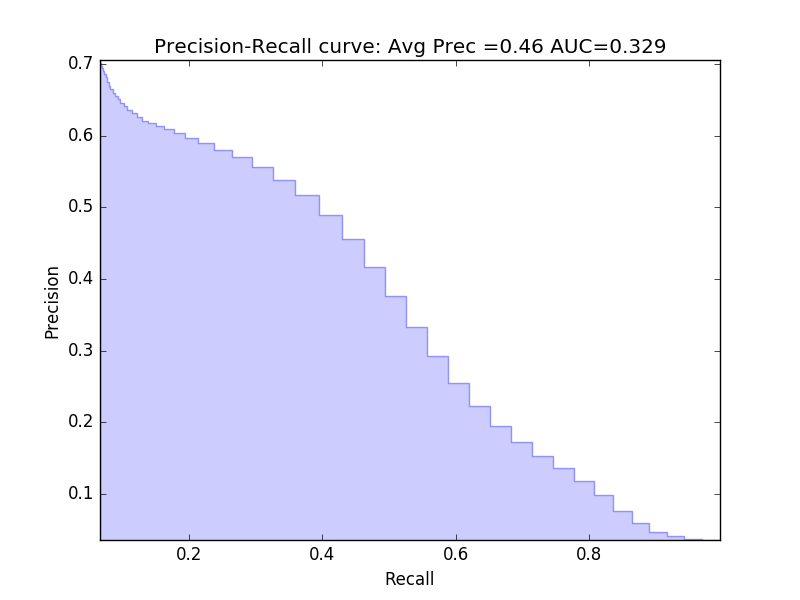
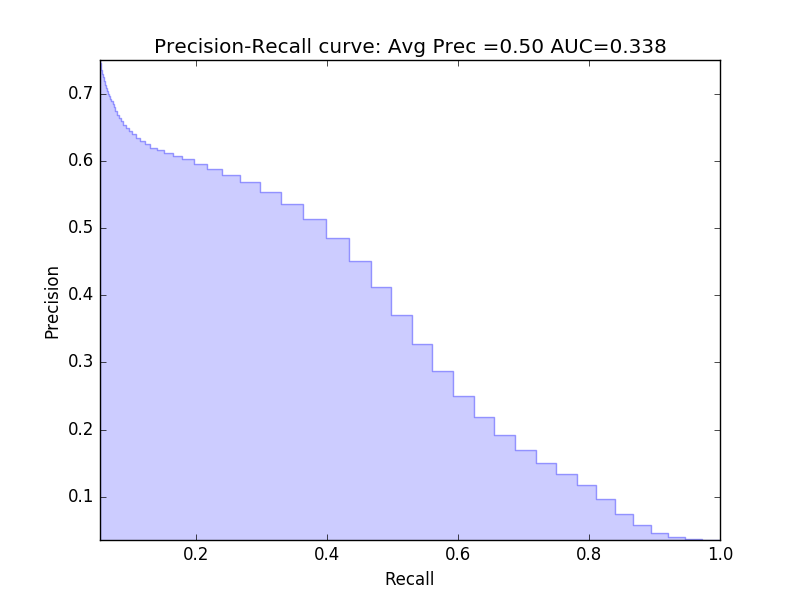
Find best parameters task 1.2

diff --git a/video_surveillance.py b/video_surveillance.py
@@ -115,12 +115,26 @@ def background_estimation(cf):
         logger.info('Running foreground evaluation')
         mean, variance = background_modeling.single_gaussian_modelling(background_img_list)
 
-        alpha_range = np.linspace(cf.evaluate_alpha_range[0], cf.evaluate_alpha_range[1], num=50)
+        alpha_range = np.linspace(cf.evaluate_alpha_range[0], cf.evaluate_alpha_range[1], num=cf.evaluate_alpha_values)
         precision, recall, F1_score = segmentation_metrics.evaluate_foreground_estimation(cf.modelling_method,
                                                                                           foreground_img_list,
                                                                                           foreground_gt_list,
                                                                                           mean, variance, alpha_range,
                                                                                           cf.rho)
+
+        if cf.find_best_parameters:
+            index_alpha = F1_score.index(max(F1_score))
+            best_alpha = alpha_range[index_alpha]
+            if cf.save_results:
+                logger.info('Saving results in {}'.format(cf.results_path))
+                mkdirs(cf.results_path)
+                for image in foreground_img_list:
+                    foreground = background_modeling.foreground_estimation(image, mean, variance, best_alpha)
+                    image_name = os.path.basename(image)
+                    image_name = os.path.splitext(image_name)[0]
+                    fore = np.array(foreground, dtype='uint8') * 255
+                    cv.imwrite(os.path.join(cf.output_folder, image_name + '.' + cf.result_image_type), fore)
+
         visualization.plot_metrics_vs_threshold(precision, recall, F1_score, alpha_range,
                                                 cf.output_folder)
 

diff --git a/metrics/segmentation_metrics.py b/metrics/segmentation_metrics.py
@@ -1,6 +1,5 @@
 from __future__ import division
-
-import logging
+import sys
 import time
 
 import cv2 as cv
